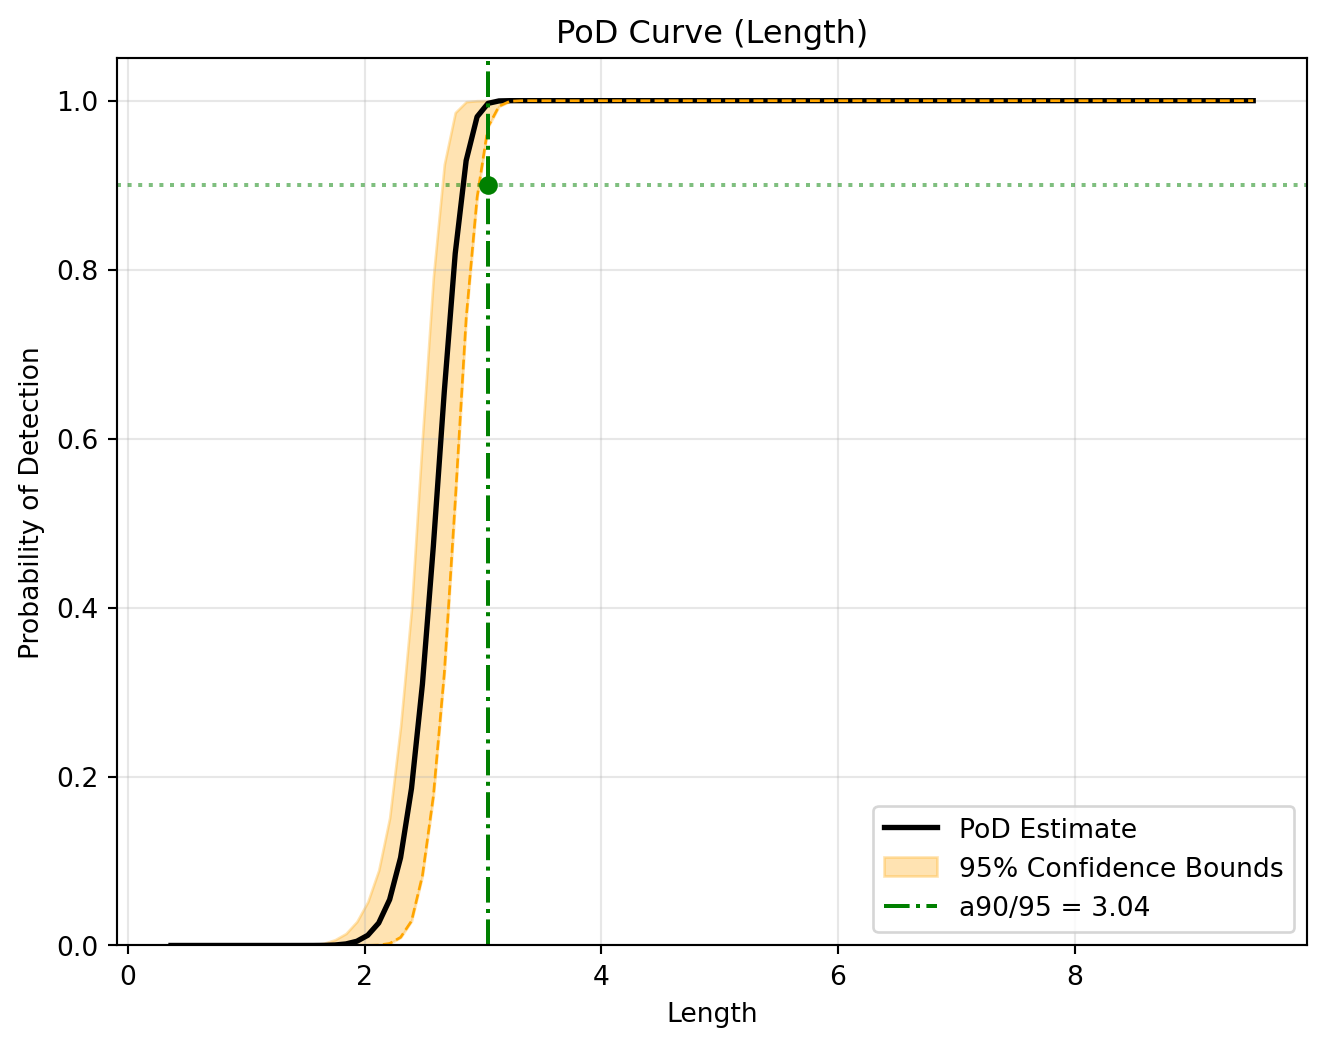
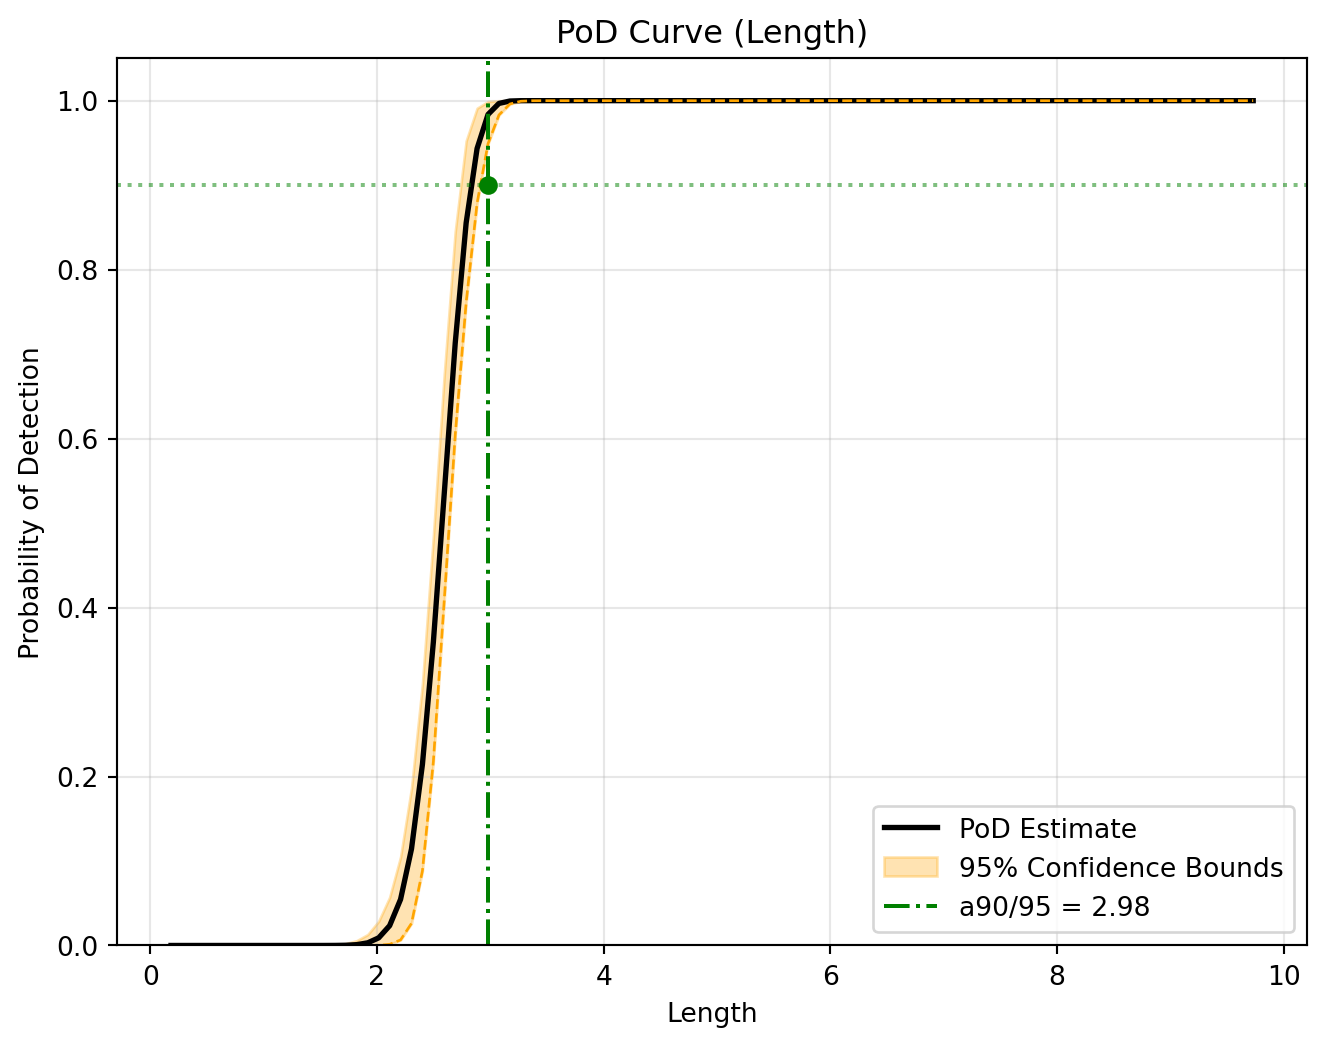
Built site for gh-pages

diff --git a/docs/quick_start_function.html b/docs/quick_start_function.html
@@ -462,7 +462,7 @@ window.Quarto = {
 <section id="generating-an-experimental-design" class="level3">
 <h3 class="anchored" data-anchor-id="generating-an-experimental-design">Generating an Experimental Design</h3>
 <p>Create a Latin Hypercube design for a simulation study involving defect size (<span class="math inline">\(a\)</span>), angle (<span class="math inline">\(\theta\)</span>) and roughness (<span class="math inline">\(\sigma_{R}\)</span>).</p>
-<div id="2734a6fe" class="cell" data-execution_count="2">
+<div id="4c56f904" class="cell" data-execution_count="2">
 <div class="code-copy-outer-scaffold"><div class="sourceCode cell-code" id="cb1"><pre class="sourceCode python code-with-copy"><code class="sourceCode python"><span id="cb1-1"><a href="#cb1-1" aria-hidden="true" tabindex="-1"></a><span class="im">import</span> pandas <span class="im">as</span> pd</span>
 <span id="cb1-2"><a href="#cb1-2" aria-hidden="true" tabindex="-1"></a><span class="im">import</span> numpy <span class="im">as</span> np</span>
 <span id="cb1-3"><a href="#cb1-3" aria-hidden="true" tabindex="-1"></a><span class="im">from</span> digiqual.sampling <span class="im">import</span> generate_lhs</span>
@@ -533,7 +533,7 @@ window.Quarto = {
 <section id="validating-simulation-data" class="level3">
 <h3 class="anchored" data-anchor-id="validating-simulation-data">Validating Simulation Data</h3>
 <p>Once you have your simulation results, ensure they are ready for PoD analysis.</p>
-<div id="f8a97d8a" class="cell" data-execution_count="3">
+<div id="d5dc2f9c" class="cell" data-execution_count="3">
 <div class="code-copy-outer-scaffold"><div class="sourceCode cell-code" id="cb2"><pre class="sourceCode python code-with-copy"><code class="sourceCode python"><span id="cb2-1"><a href="#cb2-1" aria-hidden="true" tabindex="-1"></a><span class="im">from</span> digiqual.diagnostics <span class="im">import</span> validate_simulation</span>
 <span id="cb2-2"><a href="#cb2-2" aria-hidden="true" tabindex="-1"></a></span>
 <span id="cb2-3"><a href="#cb2-3" aria-hidden="true" tabindex="-1"></a><span class="kw">def</span> apply_physics(df):</span>
@@ -559,17 +559,17 @@ window.Quarto = {
 <span id="cb2-23"><a href="#cb2-23" aria-hidden="true" tabindex="-1"></a>display(Markdown(<span class="ss">f"**Valid rows:** </span><span class="sc">{</span><span class="bu">len</span>(df_clean)<span class="sc">}</span><span class="ss">"</span>))</span>
 <span id="cb2-24"><a href="#cb2-24" aria-hidden="true" tabindex="-1"></a>display(Markdown(<span class="ss">f"**Dropped rows:** </span><span class="sc">{</span><span class="bu">len</span>(df_removed)<span class="sc">}</span><span class="ss">"</span>))</span></code></pre></div><button title="Copy to Clipboard" class="code-copy-button"><i class="bi"></i></button></div>
 <div class="cell-output cell-output-display cell-output-markdown">
-<p><strong>Valid rows:</strong> 999</p>
+<p><strong>Valid rows:</strong> 1000</p>
 </div>
 <div class="cell-output cell-output-display cell-output-markdown">
-<p><strong>Dropped rows:</strong> 1</p>
+<p><strong>Dropped rows:</strong> 0</p>
 </div>
 </div>
 </section>
 <section id="checking-sample-sufficiency" class="level3">
 <h3 class="anchored" data-anchor-id="checking-sample-sufficiency">Checking Sample Sufficiency</h3>
 <p>We have validated data so now we want to check if we have enough samples to produce an accurate PoD Curve.</p>
-<div id="67380f5f" class="cell" data-execution_count="4">
+<div id="d89a216a" class="cell" data-execution_count="4">
 <div class="code-copy-outer-scaffold"><div class="sourceCode cell-code" id="cb3"><pre class="sourceCode python code-with-copy"><code class="sourceCode python"><span id="cb3-1"><a href="#cb3-1" aria-hidden="true" tabindex="-1"></a><span class="im">from</span> digiqual.diagnostics <span class="im">import</span> sample_sufficiency</span>
 <span id="cb3-2"><a href="#cb3-2" aria-hidden="true" tabindex="-1"></a></span>
 <span id="cb3-3"><a href="#cb3-3" aria-hidden="true" tabindex="-1"></a>ss <span class="op">=</span> sample_sufficiency(</span>
@@ -623,7 +623,7 @@ window.Quarto = {
 <td>Model Fit (CV)</td>
 <td>Signal</td>
 <td>Mean R2 Score</td>
-<td>0.9942</td>
+<td>0.9945</td>
 <td>True</td>
 </tr>
 <tr class="odd">
@@ -631,7 +631,7 @@ window.Quarto = {
 <td>Bootstrap Convergence</td>
 <td>Signal</td>
 <td>Relative CI Width</td>
-<td>0.0147</td>
+<td>0.0134</td>
 <td>True</td>
 </tr>
 </tbody>
@@ -644,7 +644,7 @@ window.Quarto = {
 <section id="adaptive-refinement-check" class="level3">
 <h3 class="anchored" data-anchor-id="adaptive-refinement-check">Adaptive Refinement Check</h3>
 <p>We now run the targeted sampler. Because <code>generate_lhs</code> provides good coverage by default, we expect the adaptive module to return an empty result, confirming no more work is needed.</p>
-<div id="253306b7" class="cell" data-execution_count="5">
+<div id="b58d9339" class="cell" data-execution_count="5">
 <div class="code-copy-outer-scaffold"><div class="sourceCode cell-code" id="cb4"><pre class="sourceCode python code-with-copy"><code class="sourceCode python"><span id="cb4-1"><a href="#cb4-1" aria-hidden="true" tabindex="-1"></a><span class="im">from</span> digiqual.adaptive <span class="im">import</span> generate_targeted_samples</span>
 <span id="cb4-2"><a href="#cb4-2" aria-hidden="true" tabindex="-1"></a></span>
 <span id="cb4-3"><a href="#cb4-3" aria-hidden="true" tabindex="-1"></a>new_samples <span class="op">=</span> generate_targeted_samples(</span>
@@ -660,7 +660,7 @@ window.Quarto = {
 </section>
 <section id="running-generalised-pod-analysis" class="level3">
 <h3 class="anchored" data-anchor-id="running-generalised-pod-analysis">Running Generalised PoD Analysis</h3>
-<p>Finally, we generate the Probability of Detection curve. This pipeline automatically handles non-linear physics and heteroscedastic noise.</p>
+<p>Finally, we generate the Probability of Detection curve. This pipeline automatically handles non-linear physics and heteroscedastic noise. Some functions have hidden helper functions too.</p>
 <div id="cell-fig-pod-results" class="cell" data-execution_count="6">
 <div class="code-copy-outer-scaffold"><div class="sourceCode cell-code" id="cb6"><pre class="sourceCode python code-with-copy"><code class="sourceCode python"><span id="cb6-1"><a href="#cb6-1" aria-hidden="true" tabindex="-1"></a><span class="im">import</span> matplotlib.pyplot <span class="im">as</span> plt</span>
 <span id="cb6-2"><a href="#cb6-2" aria-hidden="true" tabindex="-1"></a><span class="im">import</span> digiqual.pod <span class="im">as</span> pod</span>

diff --git a/docs/quick_start_oop.html b/docs/quick_start_oop.html
@@ -433,7 +433,7 @@ pre > code.sourceCode > span > a:first-child::before { text-decoration: underlin
 <section id="setup-flawed-data-generation" class="level3">
 <h3 class="anchored" data-anchor-id="setup-flawed-data-generation">1. Setup &amp; “Flawed” Data Generation</h3>
 <p>First, we define our physics simulation and create a dataset with a deliberate gap (missing data between 3mm and 7mm).</p>
-<div id="3f00dba5" class="cell" data-execution_count="1">
+<div id="e6b09fb5" class="cell" data-execution_count="1">
 <div class="code-copy-outer-scaffold"><div class="sourceCode cell-code" id="cb1"><pre class="sourceCode python code-with-copy"><code class="sourceCode python"><span id="cb1-1"><a href="#cb1-1" aria-hidden="true" tabindex="-1"></a><span class="im">import</span> numpy <span class="im">as</span> np</span>
 <span id="cb1-2"><a href="#cb1-2" aria-hidden="true" tabindex="-1"></a><span class="im">import</span> pandas <span class="im">as</span> pd</span>
 <span id="cb1-3"><a href="#cb1-3" aria-hidden="true" tabindex="-1"></a><span class="im">import</span> digiqual <span class="im">as</span> dq</span>
@@ -483,7 +483,7 @@ pre > code.sourceCode > span > a:first-child::before { text-decoration: underlin
 <section id="diagnosis-detecting-the-issue" class="level3">
 <h3 class="anchored" data-anchor-id="diagnosis-detecting-the-issue">2. Diagnosis (Detecting the Issue)</h3>
 <p>We now ask the study manager to diagnose the health of our experiment. We expect it to flag the Input Coverage test because of the gap we created.</p>
-<div id="60cc6ecb" class="cell" data-execution_count="2">
+<div id="55f68058" class="cell" data-execution_count="2">
 <div class="code-copy-outer-scaffold"><div class="sourceCode cell-code" id="cb3"><pre class="sourceCode python code-with-copy"><code class="sourceCode python"><span id="cb3-1"><a href="#cb3-1" aria-hidden="true" tabindex="-1"></a>study.diagnose()</span></code></pre></div><button title="Copy to Clipboard" class="code-copy-button"><i class="bi"></i></button></div>
 <div class="cell-output cell-output-stdout">
 <pre><code>Running validation...
@@ -511,7 +511,7 @@ Checking sample sufficiency...</code></pre>
 <td>Input Coverage</td>
 <td>Length</td>
 <td>Max Gap Ratio</td>
-<td>0.4531</td>
+<td>0.4719</td>
 <td>False</td>
 </tr>
 <tr class="even">
@@ -519,7 +519,7 @@ Checking sample sufficiency...</code></pre>
 <td>Input Coverage</td>
 <td>Angle</td>
 <td>Max Gap Ratio</td>
-<td>0.0708</td>
+<td>0.1165</td>
 <td>True</td>
 </tr>
 <tr class="odd">
@@ -527,7 +527,7 @@ Checking sample sufficiency...</code></pre>
 <td>Input Coverage</td>
 <td>Roughness</td>
 <td>Max Gap Ratio</td>
-<td>0.0757</td>
+<td>0.0861</td>
 <td>True</td>
 </tr>
 <tr class="even">
@@ -535,7 +535,7 @@ Checking sample sufficiency...</code></pre>
 <td>Model Fit (CV)</td>
 <td>Signal</td>
 <td>Mean R2 Score</td>
-<td>0.9794</td>
+<td>0.9907</td>
 <td>True</td>
 </tr>
 <tr class="odd">
@@ -543,7 +543,7 @@ Checking sample sufficiency...</code></pre>
 <td>Bootstrap Convergence</td>
 <td>Signal</td>
 <td>Relative CI Width</td>
-<td>0.2036</td>
+<td>0.1754</td>
 <td>False</td>
 </tr>
 </tbody>
@@ -556,7 +556,7 @@ Checking sample sufficiency...</code></pre>
 <section id="adaptive-refinement-the-fix" class="level3">
 <h3 class="anchored" data-anchor-id="adaptive-refinement-the-fix">3. Adaptive Refinement (The Fix)</h3>
 <p>Instead of manually guessing where to add points, we use refine(). The study manager automatically detects the gap and generates targeted samples to fill it.</p>
-<div id="364c72f4" class="cell" data-execution_count="3">
+<div id="61fe32b9" class="cell" data-execution_count="3">
 <div class="code-copy-outer-scaffold"><div class="sourceCode cell-code" id="cb5"><pre class="sourceCode python code-with-copy"><code class="sourceCode python"><span id="cb5-1"><a href="#cb5-1" aria-hidden="true" tabindex="-1"></a><span class="co"># Generate active learning samples (20 points to fill the gap)</span></span>
 <span id="cb5-2"><a href="#cb5-2" aria-hidden="true" tabindex="-1"></a>new_samples <span class="op">=</span> study.refine(n_points<span class="op">=</span><span class="dv">20</span>)</span>
 <span id="cb5-3"><a href="#cb5-3" aria-hidden="true" tabindex="-1"></a></span>
@@ -586,7 +586,7 @@ Checking sample sufficiency...</code></pre>
 </div>
 </div>
 <p>Now we verify that the issue is resolved:</p>
-<div id="797e5dbe" class="cell" data-execution_count="4">
+<div id="23ab5c59" class="cell" data-execution_count="4">
 <div class="code-copy-outer-scaffold"><div class="sourceCode cell-code" id="cb8"><pre class="sourceCode python code-with-copy"><code class="sourceCode python"><span id="cb8-1"><a href="#cb8-1" aria-hidden="true" tabindex="-1"></a><span class="co"># Re-run diagnostics to confirm the green light</span></span>
 <span id="cb8-2"><a href="#cb8-2" aria-hidden="true" tabindex="-1"></a>study.diagnose()</span></code></pre></div><button title="Copy to Clipboard" class="code-copy-button"><i class="bi"></i></button></div>
 <div class="cell-output cell-output-stdout">
@@ -615,7 +615,7 @@ Checking sample sufficiency...</code></pre>
 <td>Input Coverage</td>
 <td>Length</td>
 <td>Max Gap Ratio</td>
-<td>0.0530</td>
+<td>0.0647</td>
 <td>True</td>
 </tr>
 <tr class="even">
@@ -623,7 +623,7 @@ Checking sample sufficiency...</code></pre>
 <td>Input Coverage</td>
 <td>Angle</td>
 <td>Max Gap Ratio</td>
-<td>0.0693</td>
+<td>0.0553</td>
 <td>True</td>
 </tr>
 <tr class="odd">
@@ -631,7 +631,7 @@ Checking sample sufficiency...</code></pre>
 <td>Input Coverage</td>
 <td>Roughness</td>
 <td>Max Gap Ratio</td>
-<td>0.0515</td>
+<td>0.0574</td>
 <td>True</td>
 </tr>
 <tr class="even">
@@ -639,7 +639,7 @@ Checking sample sufficiency...</code></pre>
 <td>Model Fit (CV)</td>
 <td>Signal</td>
 <td>Mean R2 Score</td>
-<td>0.9972</td>
+<td>0.9974</td>
 <td>True</td>
 </tr>
 <tr class="odd">
@@ -647,7 +647,7 @@ Checking sample sufficiency...</code></pre>
 <td>Bootstrap Convergence</td>
 <td>Signal</td>
 <td>Relative CI Width</td>
-<td>0.0276</td>
+<td>0.0196</td>
 <td>True</td>
 </tr>
 </tbody>
@@ -667,9 +667,9 @@ Checking sample sufficiency...</code></pre>
 <div class="cell-output cell-output-stdout">
 <pre><code>--- Starting Reliability Analysis (PoI: Length) ---
 1. Selecting Mean Model (Cross-Validation)...
-   -&gt; Selected Polynomial Degree: 10
+   -&gt; Selected Polynomial Degree: 2
 2. Fitting Variance Model (Kernel Smoothing)...
-   -&gt; Smoothing Bandwidth: 0.9143
+   -&gt; Smoothing Bandwidth: 0.9546
 3. Inferring Error Distribution (AIC)...
    -&gt; Selected Distribution: norm
 4. Computing PoD Curve...
